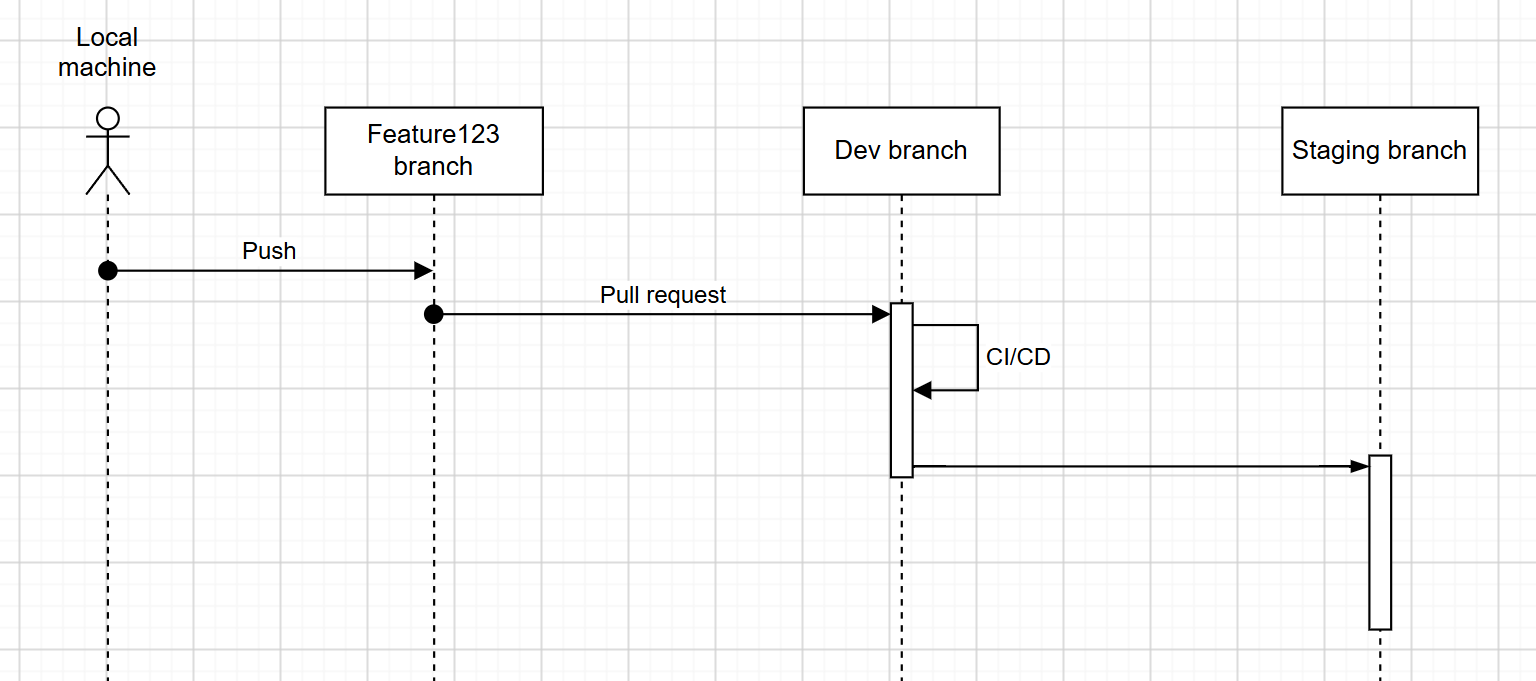
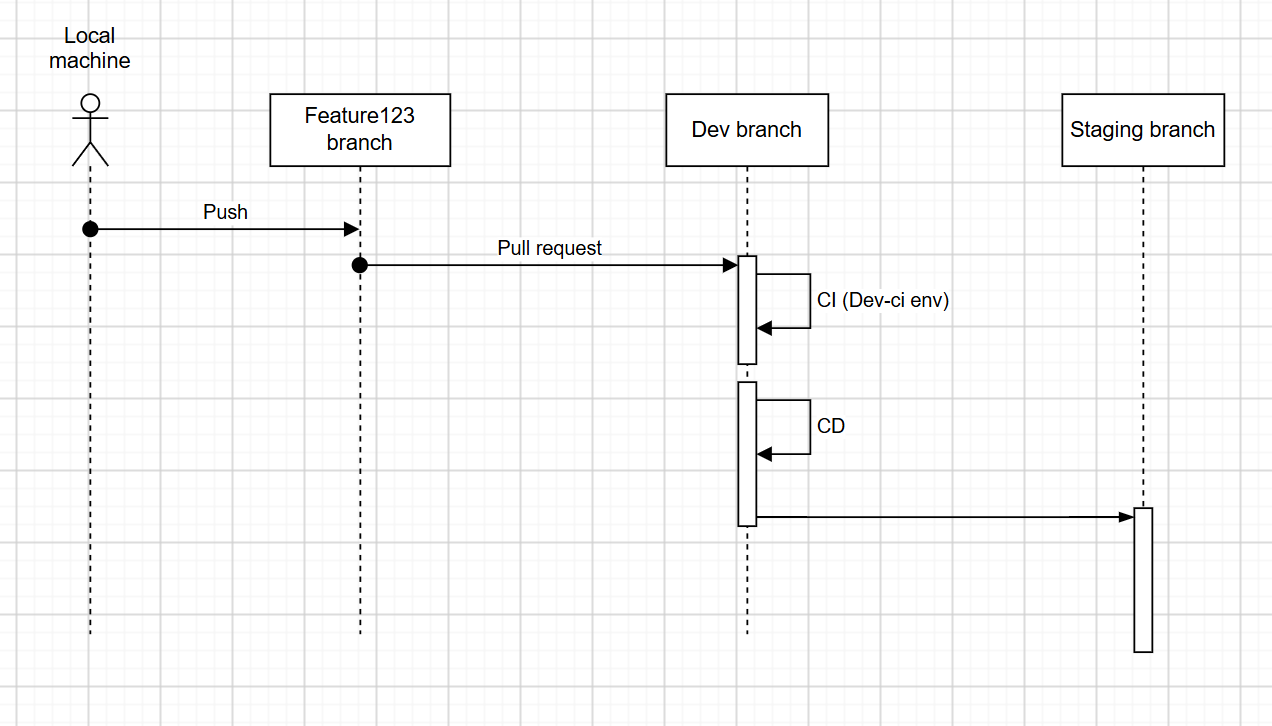
CI/CD Pipeline
* Merge pull request #3 from jerrold110/feature123

Updated CI workflow. Using PR number as the image tag

* Completed CI/CD pipeline

Switched from ephemeral cluster with minikub and helm to MLRun's officially recommended CI workflow using managed platform due to unfixable MySQL startup errors caused by incompatibility between helm chart and GHA environment after extensive troubleshooting resource allocation, Kubernetes versions, and container permissions. Local Docker Desktop Cluster for development no issues.

* Updated CI workflow

* Fixed Validate and format Terraform

* Fix

* Added layer download, and removed double colon

* Switched to using PR number for image tag

* Added mlrun kind cluster to ci

* Added all steps to CI

* Added chmod +x to k8s/install.sh

* Added TF_VAR_IMAGE_TAG

* Removed the Setup mlrun project step

* Added port forwarding to expose MLRun API to Github Runner

* Tweaked helm installation

* Removed mlrun installation timeout, added port forwarding

* Updated install.sh

* Added back time limit 1hr with debug output

* Added debug step after installing K8s

* Added more debug

* Added process to change filesystem ownership to Mysql user within kind cluster for mysql setup

* fsGroup Patch

* Removed wait

* Downgrade to mysql 8.0

* Changed debug strategy

* Debug

* New debug code to check

* Fixed bug

* Debug to check pod yaml

* Removed fsGroup, added helm install step

* Checking KinD and OCI runtime spec
[…]

diff --git a/setup/build_functions.py b/setup/build_functions.py
@@ -34,6 +34,7 @@ else:
     mlrun.set_environment(api_path="http://localhost:30070")
     # Context must be where project.yaml is, if running from notebook use ../
     project = mlrun.load_project(name="legalcontractextractor", context="../")
+    print("Successfully loaded project")
 
 # Configuration for the build
 # Source branch for build
@@ -42,6 +43,7 @@ project.set_source(
     source=url,
     pull_at_runtime=False,
 )
+print("Set project source")
 # for projects that require cloning the entire repo (clones project.yaml too)
 # project.set_secrets(secrets={"GIT_TOKEN" : "XXXXXXXXXXXXXXX"}, provider="kubernetes") private repo
 

diff --git a/README.md b/README.md
@@ -48,6 +48,7 @@ The deployment process of MLRun job functions (k8s batch jobs) are unique in tha
 - https://docs.mlrun.org/en/stable/runtimes/create-and-use-functions.html#load-code-from-container
 - https://docs.mlrun.org/en/stable/runtimes/image-build.html#working-with-code-repository
 - https://docs.mlrun.org/en/stable/concepts/functions-overview.html
+- https://docs.mlrun.org/en/1.11.x/projects/ci-integration.html#using-github-actions
 
 ![MLRun overview](diagram/cicd3.png)
 ![MLRun overview](diagram/cicd4.png)
@@ -61,7 +62,11 @@ The CI/CD process that builds, tests, commits to version control, and deploys th
 ### Mono-repo vs Multi-repo
 In this MLOps platform project, there are multiple pipelines where similarities could be drawn between it and a platform with multiple microservices. I am using a mono-repo approach in this project, which is not a good approach in general because every single change no matter how small requires building, testing, merging, and deploying all the pipelines in this platform.
 
-As this is a portfolio project with only me working on it, I am using a mono-repo approach and bundling all the MLOps pipelines in this platform into a single repository.
+As this is a portfolio project with only me working on it, I am using a mono-repo approach and bundling all the MLOps pipelines in this platform into a single 
+repository.
+
+### Continuous Integration Testing: Iguazio platform vs Ephemeral Cluster
+I initially attempted to provision an ephemeral Kubernetes cluster using Minikube within GitHub Actions to install MLRun for each CI run. Although the same Helm chart worked locally on Docker Desktop Kubernetes, the CI installation repeatedly failed due to MySQL startup errors despite troubleshooting resource allocation, Kubernetes versions, and container permissions. I therefore decided to adopt MLRun’s officially recommended CI approach, which deploys projects to an existing MLRun platform rather than provisioning a new cluster for each run. In production, this would typically use a persistent, managed MLRun environment; however, I did not implement that deployment in this portfolio project because it would require a paid subscription.
 
 ## Recommended project lifecycle
 This is the recommended project lifecycle that incorporates CI/CD with Git from the official  MLRun documentation:
@@ -384,7 +389,7 @@ Appconfig and Cloudwatch, Cloudwatch metric  are used in conjunction with the La
 ![Picture](diagram/deploy3.png)
 
 ## Observability
-We track a few data points during operation: Traces, Logs, Model performance metrics. Model tracing are extremely long stings of data and storing them in CloudWatch will cause cost to increase out of control - hence I use data firehose (microbatches) to write them to parquet files in S3, which also facilitates automated expansion of training datasets for `ongoing training`.
+We track a few data points during operation: Traces, Logs, Model performance metrics. Model tracing are extremely long stings of data and storing them in CloudWatch will cause cost to increase out of control - hence I use data firehose (microbatches) to write them to parquet files in S3, which also facilitates automated expansion of training datasets for `continuous training`.
 
 ![Picture](diagram/observe1.png)
 
